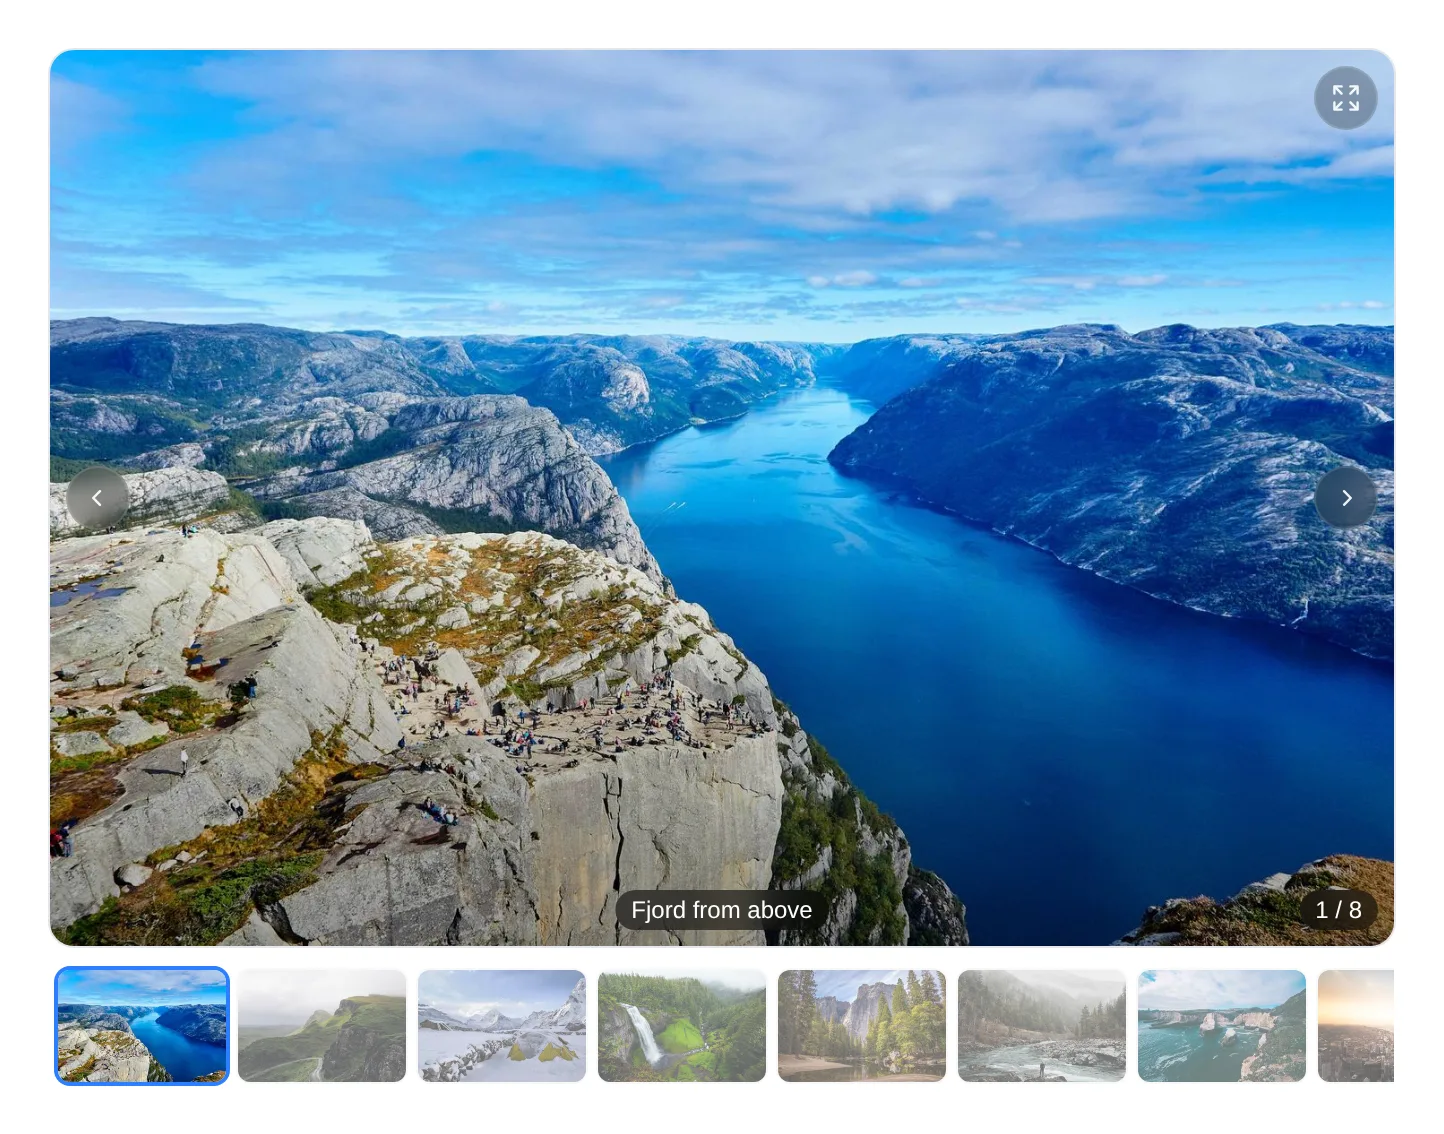
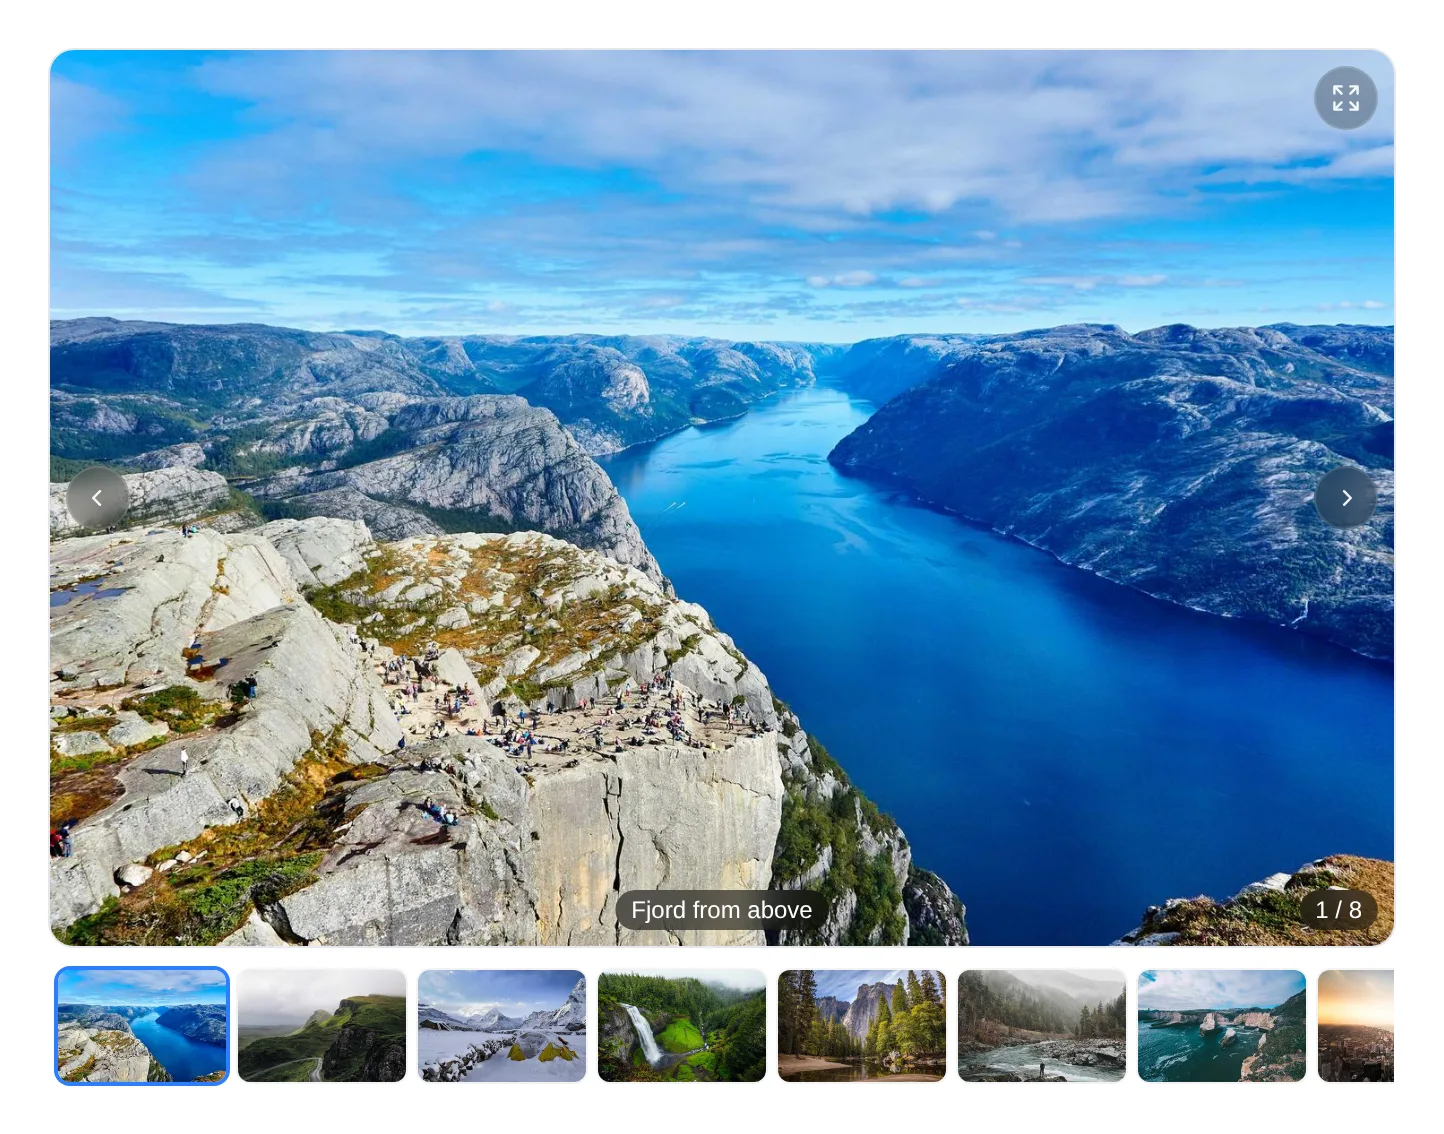
Thumbnails: Show every thumbnail at full brightness, mark the current one by its ring

Changed region(s): [[0.0312, 0.5247, 0.9661, 0.9568]]

diff --git a/resources/js/vue/components/Thumbnails.vue b/resources/js/vue/components/Thumbnails.vue
@@ -36,8 +36,8 @@ watch(() => props.index, () => nextTick(reveal), { immediate: true });
             class="relative shrink-0 overflow-hidden rounded-md transition duration-200 ease-out focus-visible:outline-none"
             :class="[
                 tone === 'overlay'
-                    ? position === index ? 'opacity-100 ring-2 ring-white' : 'opacity-45 ring-1 ring-white/10 hover:opacity-80'
-                    : position === index ? 'opacity-100 ring-2 ring-il-primary-500 dark:ring-il-primary-400' : 'opacity-60 ring-1 ring-black/5 hover:opacity-100 dark:ring-white/10',
+                    ? position === index ? 'ring-2 ring-white' : 'ring-1 ring-white/10 hover:ring-white/50'
+                    : position === index ? 'ring-2 ring-il-primary-500 dark:ring-il-primary-400' : 'ring-1 ring-black/5 hover:ring-il-primary-300 dark:ring-white/10 dark:hover:ring-white/40',
                 'focus-visible:ring-2 focus-visible:ring-il-primary-400',
             ]"
             @click="emit('select', position)"

diff --git a/CHANGELOG.md b/CHANGELOG.md
@@ -2,6 +2,13 @@
 
 All notable changes to `aaix/laravel-islands-gallery` will be documented in this file.
 
+## [1.0.3] - 2026-11-02
+
+### Changed
+
+- Thumbnails that are not the current image are no longer dimmed; the current one is marked by its
+  ring alone, so every picture shows at full brightness.
+
 ## [1.0.2] - 2026-11-02
 
 ### Fixed
